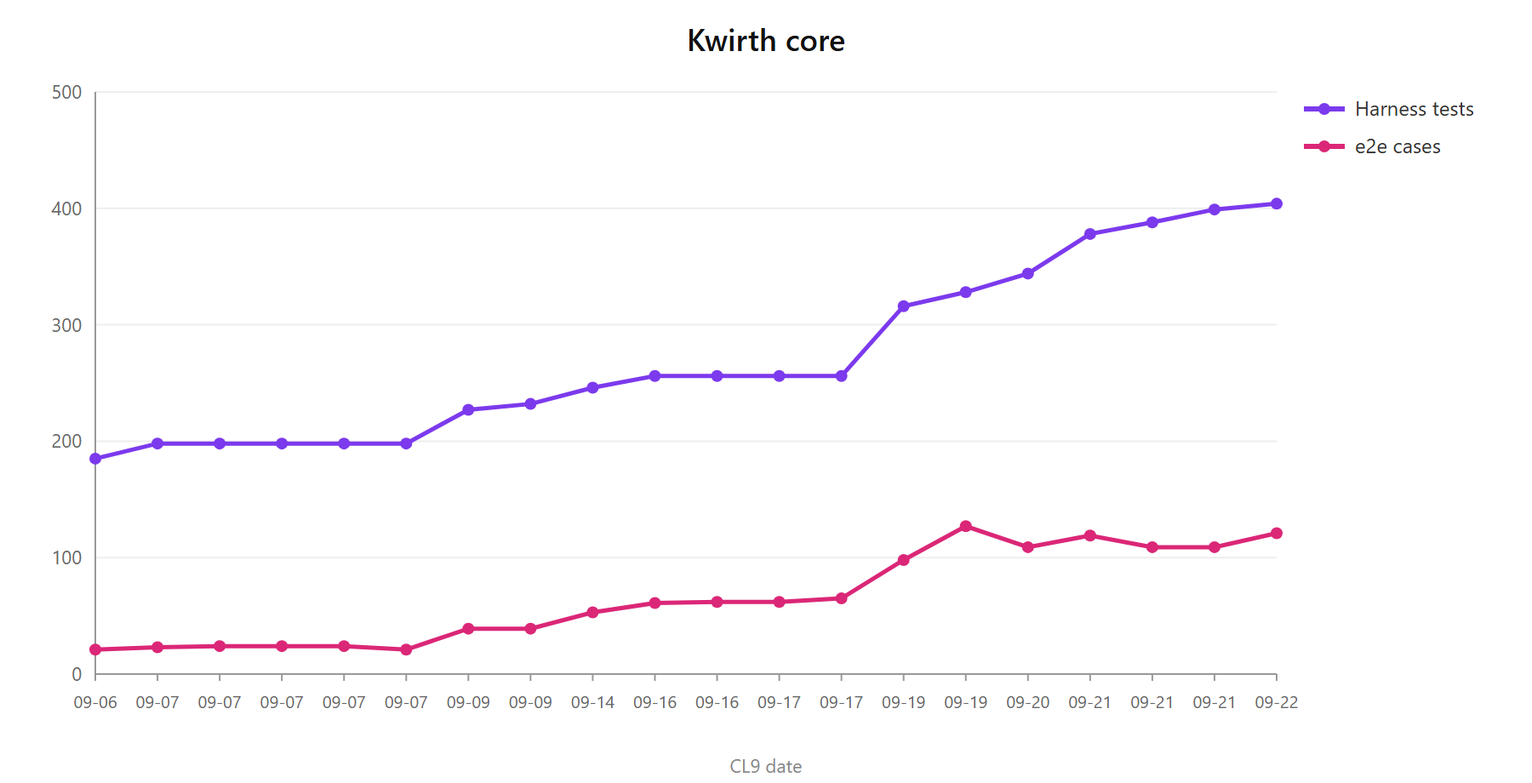
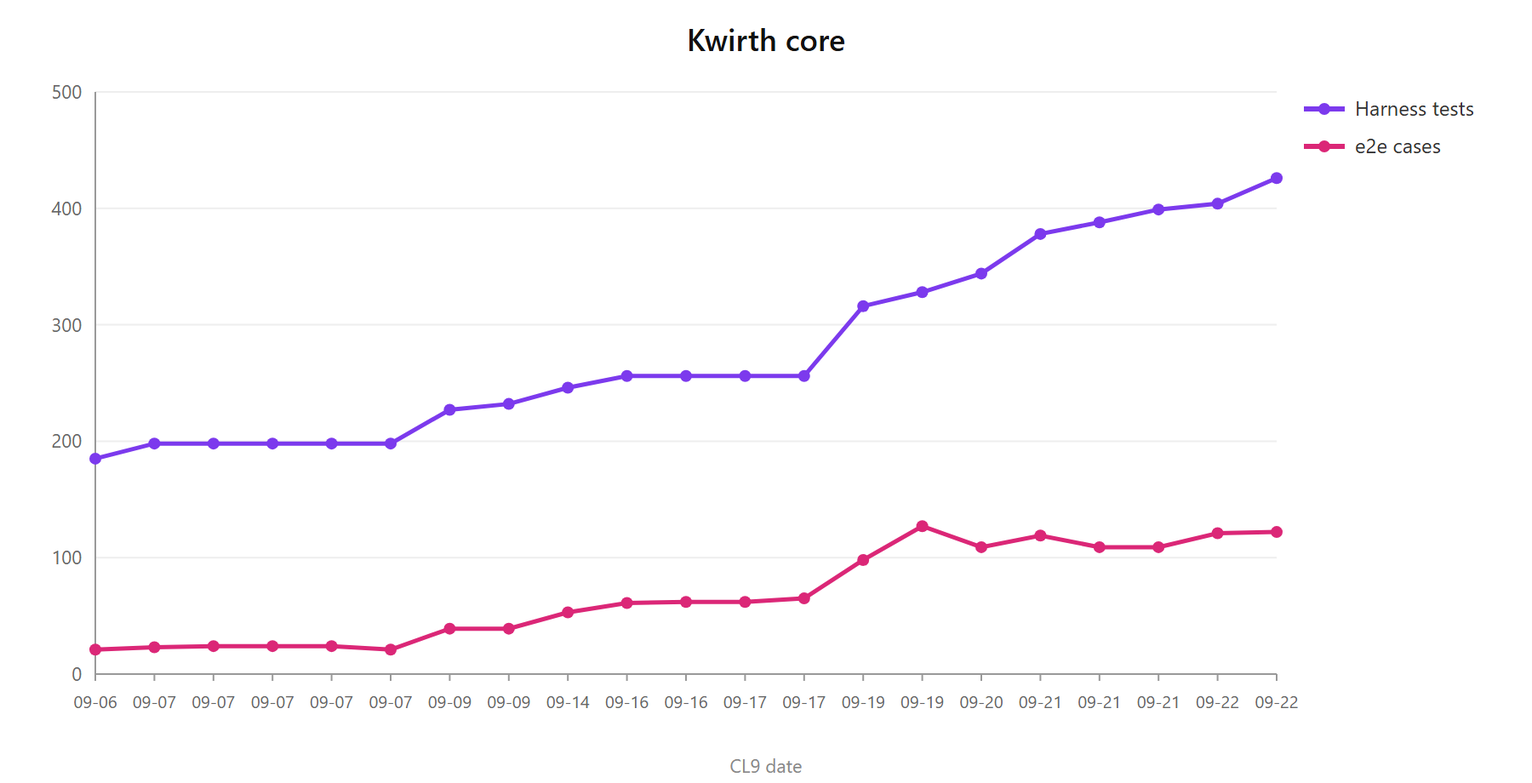
fix(core): una extension montada desde dev salia DUPLICADA en tres managers
listInstalled() concatenaba el indice de instalados con los metadatos de dev sin filtrar los que se
pisan. Una extension registrada en kwirth-dev.json SUSTITUYE a la instalada con su mismo id, no se
suma a ella: en un entorno de desarrollo —donde lo normal es tenerla instalada Y ademas montada
desde su dist— la misma salia dos veces, y el duplicado viajaba tal cual por /core/senders,
/core/providers y /core/webhooks a todos sus consumidores, los gestores del front incluidos.

No era solo de senders: plugin, theme, login, homepage y aitoolset ya llevaban el filtro, pero
sender, provider y webhook se habian quedado atras. Los tres usan ahora el mismo patron.

Lo cazo el e2e del plugin sender-debug, cuyo desplegable pintaba 'console' repetido. El plugin se
defiende deduplicando por su cuenta y se queda asi: le sirve contra un core anterior a este
arreglo, que es lo que un depurador se va a encontrar por ahi.

+8 tests que montan un workspace de dev de VERDAD (un kwirth-dev.json y un dist por extension) y
recorren el camino que hace el core al arrancar, en vez de falsear los mapas de dev a mano; se
comprobo que 6 de los 8 se ponen rojos sin el arreglo. +1 caso e2e en el gestor de senders, sobre
la respuesta del endpoint y NO sobre las tarjetas: el gestor pinta instalados y disponibles del
marketplace, asi que un sender publicado sale dos veces con toda la razon — contar tarjetas daba un
rojo que no decia nada del bug.

426 tests y 37 specs / 122 casos e2e.

diff --git a/back/tests/tools/devOverridesIndex.test.ts b/back/tests/tools/devOverridesIndex.test.ts
@@ -1,0 +1,184 @@
+import { test, describe } from 'node:test'
+import assert from 'node:assert/strict'
+import fs from 'fs'
+import os from 'os'
+import path from 'path'
+import { SenderManager } from '../../src/tools/SenderManager'
+import { ProviderManager } from '../../src/tools/ProviderManager'
+import { WebhookManager } from '../../src/tools/WebhookManager'
+
+/*
+    Una extension registrada en kwirth-dev.json SUSTITUYE a la instalada con su mismo id: no se suma
+    a ella.
+
+    Sonaba obvio y no lo era. 'listInstalled()' concatena el indice de instalados con los metadatos
+    de dev, y en senders, providers y webhooks faltaba filtrar los que se pisan: en un entorno de
+    desarrollo —donde una extension esta instalada Y ademas montada desde su dist— la misma salia
+    DOS veces, y el duplicado viajaba tal cual por '/core/senders', '/core/providers' y
+    '/core/webhooks' a todos sus consumidores: los gestores del front y cualquier extension que
+    liste. Lo cazo el e2e de sender-debug, cuyo desplegable pintaba 'console' repetido.
+
+    Plugin, theme, login, homepage y aitoolset ya lo hacian bien; estos tres se habian quedado atras.
+*/
+
+// ── mocks ────────────────────────────────────────────────────────────────────
+
+// IConfigMaps en memoria, sembrado con el indice de instalados que se quiera probar.
+const makeConfigMaps = (seed: Record<string, unknown> = {}) => {
+    const store = new Map<string, unknown>(Object.entries(seed))
+    const keyed = new Map<string, Map<string, unknown>>()
+    return {
+        write: async (name: string, data: unknown) => { store.set(name, data) },
+        read: async (name: string, def?: unknown) => (store.has(name) ? store.get(name) : def),
+        writeKey: async (name: string, key: string, value: unknown) => {
+            if (!keyed.has(name)) keyed.set(name, new Map())
+            if (value === null) keyed.get(name)!.delete(key)
+            else keyed.get(name)!.set(key, value)
+        },
+        readAllKeys: async (name: string) => Object.fromEntries(keyed.get(name) ?? new Map()),
+    }
+}
+
+/*
+    Monta un workspace de dev de verdad: un kwirth-dev.json con su seccion y un dist por extension
+    (package.json + back.js), y ejecuta el cuerpo con el cwd ahi — que es de donde los managers leen
+    el fichero. No se falsean los mapas de dev a mano a proposito: el camino que se quiere probar es
+    el que recorre el core al arrancar.
+*/
+const withDevWorkspace = async (section: string, ids: string[], version: string, body: () => Promise<void>): Promise<void> => {
+    const root = fs.mkdtempSync(path.join(os.tmpdir(), 'kwirth-dev-ws-'))
+    const entries: Record<string, string> = {}
+    for (const id of ids) {
+        const dist = path.join(root, id, 'dist')
+        fs.mkdirSync(dist, { recursive: true })
+        fs.writeFileSync(path.join(dist, 'package.json'), JSON.stringify({ id, name: id, displayName: `${id} (dev)`, version, description: 'dev build' }))
+        // back.js minimo: lo unico que hace falta es que exporte una clase. Si fallase, el registro
+        // de dev se hace igual (es lo primero que ocurre), pero asi se recorre el camino completo.
+        fs.writeFileSync(path.join(dist, 'back.js'), `class Dev { constructor() { this.id = ${JSON.stringify(id)} } }\nmodule.exports = Dev\n`)
+        entries[id] = path.join(root, id, 'dist')
+    }
+    fs.writeFileSync(path.join(root, 'kwirth-dev.json'), JSON.stringify({ [section]: entries }))
+
+    const previous = process.cwd()
+    process.chdir(root)
+    try {
+        await body()
+    }
+    finally {
+        process.chdir(previous)
+        // los watchers de dev son persistent:false, pero se sueltan igual para no dejar nada mirando
+        // a un directorio temporal que se borra a continuacion
+        for (const id of ids) fs.unwatchFile(path.join(root, id, 'dist', 'back.js'))
+        fs.rmSync(root, { recursive: true, force: true })
+    }
+}
+
+const installed = (id: string, version: string) => ({ id, name: id, displayName: `${id} (installed)`, version, description: 'installed', installedFrom: 'https://marketplace.example/x.tgz' })
+
+// ── senders ──────────────────────────────────────────────────────────────────
+
+describe('SenderManager.listInstalled', () => {
+    test('un sender que esta instalado Y en dev sale UNA vez, con los metadatos de dev', async () => {
+        await withDevWorkspace('senders', ['console'], '9.9.9-dev', async () => {
+            const manager = new SenderManager(makeConfigMaps({ 'kwirth-senders-index': [installed('console', '0.2.0')] }) as never)
+            await manager.init()
+            manager.loadDevSenders()
+
+            const list = await manager.listInstalled()
+            assert.deepEqual(list.map(m => m.id), ['console'])
+            // manda el de dev: es el que getSender() acaba resolviendo, asi que es el que describe
+            // al sender que de verdad recibira el mensaje
+            assert.equal(list[0].version, '9.9.9-dev')
+            assert.equal(list[0].displayName, 'console (dev)')
+        })
+    })
+
+    test('lo instalado que NO esta en dev se conserva, junto a lo de dev', async () => {
+        await withDevWorkspace('senders', ['console'], '9.9.9-dev', async () => {
+            const index = [installed('console', '0.2.0'), installed('teams', '0.4.1')]
+            const manager = new SenderManager(makeConfigMaps({ 'kwirth-senders-index': index }) as never)
+            await manager.init()
+            manager.loadDevSenders()
+
+            const list = await manager.listInstalled()
+            assert.deepEqual(list.map(m => m.id).sort(), ['console', 'teams'])
+            assert.equal(list.find(m => m.id === 'teams')!.version, '0.4.1')
+        })
+    })
+
+    test('sin nada en dev, el indice de instalados sale intacto', async () => {
+        const manager = new SenderManager(makeConfigMaps({ 'kwirth-senders-index': [installed('console', '0.2.0'), installed('jira', '0.1.0')] }) as never)
+        await manager.init()
+
+        const list = await manager.listInstalled()
+        assert.deepEqual(list.map(m => m.id), ['console', 'jira'])
+        assert.equal(list[0].version, '0.2.0')
+    })
+
+    test('un sender solo en dev sale, aunque no este en el indice', async () => {
+        await withDevWorkspace('senders', ['brandnew'], '0.0.1', async () => {
+            const manager = new SenderManager(makeConfigMaps({ 'kwirth-senders-index': [] }) as never)
+            await manager.init()
+            manager.loadDevSenders()
+
+            const list = await manager.listInstalled()
+            assert.deepEqual(list.map(m => m.id), ['brandnew'])
+        })
+    })
+})
+
+// ── providers ────────────────────────────────────────────────────────────────
+
+describe('ProviderManager.listInstalled', () => {
+    test('un provider que esta instalado Y en dev sale UNA vez, con los metadatos de dev', async () => {
+        await withDevWorkspace('providers', ['azure'], '9.9.9-dev', async () => {
+            const manager = new ProviderManager(makeConfigMaps({ 'kwirth-providers-index': [installed('azure', '0.2.0')] }) as never)
+            await manager.init()
+            manager.loadDevProviders(new Map())
+
+            const list = await manager.listInstalled()
+            assert.deepEqual(list.map(m => m.id), ['azure'])
+            assert.equal(list[0].version, '9.9.9-dev')
+        })
+    })
+
+    test('lo instalado que NO esta en dev se conserva', async () => {
+        await withDevWorkspace('providers', ['azure'], '9.9.9-dev', async () => {
+            const index = [installed('azure', '0.2.0'), installed('longhorn', '0.1.0')]
+            const manager = new ProviderManager(makeConfigMaps({ 'kwirth-providers-index': index }) as never)
+            await manager.init()
+            manager.loadDevProviders(new Map())
+
+            const list = await manager.listInstalled()
+            assert.deepEqual(list.map(m => m.id).sort(), ['azure', 'longhorn'])
+        })
+    })
+})
+
+// ── webhooks ─────────────────────────────────────────────────────────────────
+
+describe('WebhookManager.listInstalled', () => {
+    test('un webhook que esta instalado Y en dev sale UNA vez, con los metadatos de dev', async () => {
+        await withDevWorkspace('webhooks', ['jira'], '9.9.9-dev', async () => {
+            const manager = new WebhookManager(makeConfigMaps({ 'kwirth-webhooks-index': [installed('jira', '0.3.0')] }) as never)
+            await manager.init()
+            manager.loadDevWebhooks()
+
+            const list = await manager.listInstalled()
+            assert.deepEqual(list.map(m => m.id), ['jira'])
+            assert.equal(list[0].version, '9.9.9-dev')
+        })
+    })
+
+    test('lo instalado que NO esta en dev se conserva', async () => {
+        await withDevWorkspace('webhooks', ['jira'], '9.9.9-dev', async () => {
+            const index = [installed('jira', '0.3.0'), installed('github', '0.1.2')]
+            const manager = new WebhookManager(makeConfigMaps({ 'kwirth-webhooks-index': index }) as never)
+            await manager.init()
+            manager.loadDevWebhooks()
+
+            const list = await manager.listInstalled()
+            assert.deepEqual(list.map(m => m.id).sort(), ['github', 'jira'])
+        })
+    })
+})

diff --git a/front/e2e/tests/senders-manager.spec.ts b/front/e2e/tests/senders-manager.spec.ts
@@ -66,6 +66,26 @@ test.describe('gestor generico de extensiones: senders', () => {
         }
     })
 
+    /*
+        Un sender montado desde dev SUSTITUYE al instalado con su mismo id, no se suma a el.
+
+        Faltaba el filtro en `SenderManager.listInstalled()` —que concatena el indice de instalados
+        con los metadatos de dev— y en un entorno de desarrollo, donde lo normal es tener una
+        extension instalada Y ademas montada desde su dist, el mismo sender salia DOS veces: aqui en
+        el gestor, y en cualquier consumidor de '/core/senders'. Lo cazo el e2e del plugin
+        sender-debug, cuyo desplegable pintaba 'console' repetido.
+
+        Se mira la RESPUESTA del endpoint y no las tarjetas: el gestor pinta los instalados y ademas
+        los disponibles en el marketplace, asi que un sender instalado que tambien esta publicado sale
+        dos veces con toda la razon. Contar tarjetas por su nombre daria un rojo que no dice nada del
+        bug — se comprobo, y era exactamente lo que pasaba con 'email-resend'.
+    */
+    test('ningun sender sale repetido, aunque este instalado y ademas montado desde dev', async () => {
+        const ids = senders.map(s => s.id)
+        const repetidos = ids.filter((id, i) => ids.indexOf(id) !== i)
+        expect(repetidos, `'/core/senders' devuelve ids repetidos: ${repetidos.join(', ')}`).toEqual([])
+    })
+
     test('el chip cuenta los destinos que tiene puestos cada sender', async () => {
         // Un sender sin configuraciones no manda nada a ningun sitio, y eso se lee de un vistazo.
         const conConfigs = senders.filter(s => s.configNames.length > 0)

diff --git a/back/src/tools/SenderManager.ts b/back/src/tools/SenderManager.ts
@@ -424,7 +424,16 @@ export class SenderManager implements ISenderAccess {
                 return dev.meta
             }
         })
-        return [...stored, ...devMetas].map(meta => ({
+        /*
+            Un sender registrado en dev SUSTITUYE al instalado con su mismo id, no se suma a el. Sin
+            este filtro el mismo sender sale DOS veces —lo normal en un entorno de desarrollo, donde
+            esta instalado y ademas montado desde su dist— y el duplicado viaja tal cual por
+            GET /core/senders a todos sus consumidores: el gestor de senders y cualquier extension
+            que liste senders. Es el mismo patron que ya usan plugin, theme, login, homepage y
+            aitoolset; aqui faltaba. Manda el de dev, que es el que getSender() acaba resolviendo.
+        */
+        const devIds = new Set(devMetas.map(m => m.id))
+        return [...stored.filter(m => !devIds.has(m.id)), ...devMetas].map(meta => ({
             ...meta,
             configNames: Array.from(this.configStore.get(meta.id)?.values() ?? []).map(c => c.name),
             hasFront: this.hasFront(meta.id),

diff --git a/back/src/tools/WebhookManager.ts b/back/src/tools/WebhookManager.ts
@@ -419,7 +419,10 @@ export class WebhookManager implements IWebhookAccess {
                 return dev.meta
             }
         })
-        return [...stored, ...devMetas].map(meta => ({
+        // Un webhook de dev SUSTITUYE al instalado con su mismo id, no se suma a el: sin el filtro
+        // sale duplicado en '/core/webhooks' y en el gestor. Mismo patron que plugin, theme y login.
+        const devIds = new Set(devMetas.map(m => m.id))
+        return [...stored.filter(m => !devIds.has(m.id)), ...devMetas].map(meta => ({
             ...meta,
             configNames: Array.from(this.configStore.get(meta.id)?.values() ?? []).map(c => c.name),
             hasFront: this.hasFront(meta.id),

diff --git a/back/src/tools/ProviderManager.ts b/back/src/tools/ProviderManager.ts
@@ -173,7 +173,10 @@ export class ProviderManager {
                 return dev.meta
             }
         })
-        return [...stored, ...devMetas]
+        // Un provider de dev SUSTITUYE al instalado con su mismo id, no se suma a el: sin el filtro
+        // sale duplicado en '/core/providers' y en el gestor. Mismo patron que plugin, theme y login.
+        const devIds = new Set(devMetas.map(m => m.id))
+        return [...stored.filter(m => !devIds.has(m.id)), ...devMetas]
     }
 
     async install(tarGzUrl: string, registeredProviders: Map<string, TProviderConstructor>, installedFrom?: string, marketplaceId?: string, marketplaceLabel?: string): Promise<IProviderMeta> {

diff --git a/docs/qa/test-metrics-history.md b/docs/qa/test-metrics-history.md
@@ -38,6 +38,7 @@
 
 | Fecha | Cierre | Harness | Cobertura (líneas / ramas / funcs) | e2e | Notas |
 |---|---|---|---|---|---|
+| 2026-09-22 | Una extensión montada desde dev salía DUPLICADA en tres managers | **426** ✅ | 80.44 % / 82.96 % / 78.41 % | 37 specs · 122 casos | **`listInstalled()` concatenaba el índice de instalados con los metadatos de dev sin filtrar los que se pisan.** Una extensión registrada en `kwirth-dev.json` **sustituye** a la instalada con su mismo id, no se suma a ella — y en un entorno de desarrollo, donde lo normal es tenerla instalada Y además montada desde su `dist`, la misma salía **dos veces**. El duplicado viajaba tal cual por `/core/senders`, `/core/providers` y `/core/webhooks` a todos sus consumidores: los gestores del front y cualquier extensión que liste. `plugin`, `theme`, `login`, `homepage` y `aitoolset` ya llevaban el filtro; **sender, provider y webhook se habían quedado atrás**, y ahora usan el mismo patrón. Lo cazó el **e2e del plugin sender-debug**, cuyo desplegable pintaba `console` repetido: el plugin se defendía deduplicando, pero el defecto estaba aquí. **+8 tests** que montan un workspace de dev de verdad (un `kwirth-dev.json` y un `dist` por extensión) y recorren el camino que hace el core al arrancar, en vez de falsear los mapas de dev a mano; se comprobó que **6 de los 8 se ponen rojos sin el arreglo**. **+1 caso e2e** en el gestor de senders, sobre la respuesta del endpoint y **no** sobre las tarjetas: el gestor pinta instalados *y* disponibles del marketplace, así que un sender publicado sale dos veces con toda la razón — contar tarjetas daba un rojo que no decía nada del bug. ⚠ El harness incluye 8 tests de `senderBatch.test.ts`, trabajo en curso sin commitear ajeno a este cierre. |
 | 2026-09-22 | Probar la configuración de una extensión desde el formulario, y campos de varios valores | **404** ✅ | 78.95 % / 83.38 % / 77.41 % | 37 specs · 121 casos | **Un usuario metía credenciales y no sabía si valían hasta que la extensión fallaba en silencio.** Excubitor lo resolvió a mano con su *Test connection* para los conectores cloud; ahora lo hace el core una vez para cualquier provider: el formulario genérico saca un botón **TEST** si el provider expone `/test` en su `configRouter`. La detección **no se declara**, se mira: `ProviderApi` inspecciona las rutas del router —el endpoint es la única fuente que no puede mentir— así que un provider que lo añada mañana hereda el botón sin tocar su `package.json` ni su build. Ya lo tienen dos: `azure` y `sugarless`. ⚠ El botón manda el **borrador** por POST y **no guarda**: probar lo que tienes escrito es lo útil, pero guardarlo por tu cuenta puede dejar la configuración peor de como estaba si el formulario se cargó a medias (una extensión que solo acepte GET prueba lo guardado, y entonces sí se avisa de los cambios pendientes). **Y campos de varios valores**: `multiselect` en `IConfigFieldDef` (`kwirth-common@0.5.53`), pintado como desplegable múltiple **con checkbox** — sin el check, un multiselect parece de selección única, y así se quedó en la primera pasada. El valor se guarda como una cadena con comas: el contrato no tiene tipo lista y dárselo obligaría a migrar los 64 campos ya publicados. `azure` lo usa para ofrecer las regiones reales de la suscripción. **+5 tests** de la detección (incluido que `/testing` o `/test/algo` no cuentan) y **+1 spec e2e** con 2 casos, que comprueba el botón y los checkbox sin pulsar TEST — probar de verdad sale a la red del proveedor. ℹ `kwirth-common@0.5.53` trae además `previousLogLines`, el ajuste del log del contenedor anterior: el tipo ya está, **consumirlo sigue pendiente** (S2 de su plan). |
 | 2026-09-21 | La cobertura del core estaba MAL MEDIDA (y dos managers sin un solo test) | **399** ✅ | 78.78 % / 83.18 % / 77.55 % | 34 specs · 109 casos | 🔴 **El 50 % que veníamos apuntando era un artefacto de medición.** El runner del back bundleaba **un fichero por test**, así que cada bundle arrastraba su **propia copia del `src`** y el informe los trataba como ficheros distintos: hacía la **media** de esas copias en vez de la **unión**, contando como no cubierto todo el `src` que ese test concreto no toca. Encima el desglose listaba `tests/.out/*.test.mjs`, no `src/`, que es la pista que lo delató. Con el entry único —el mismo arreglo que ya llevaban montag, agora y provider-debug— la misma suite, **sin un test nuevo**, pasa de 50.92 a **79.23 %**. El salto es de medición, no de trabajo. ⚠ El número incluye el código de los propios tests dentro del bundle, así que está algo por encima de la cobertura pura de `src/`; es el mismo criterio que usan los plugins, y por eso es comparable con ellos. **Y lo que sí es trabajo**: `ThemeManager` y `HomepageManager` no tenían **ningún** test —42 de los 83 ficheros del `src` siguen sin aparecer en ninguno— y ahora llevan **11**, que fijan lo que se aprendió a base de sustos: las dos formas de tgz (raíz y `package/`) instalan igual, un front que no cabe en el ConfigMap no se guarda ahí y se recupera del origen con caché, y esa caché se invalida al instalar y al desinstalar. De paso se alinearon con los otros cuatro managers: ya borraban al desinstalar, pero **no al instalar**, que es justo el caso de actualizar. ℹ El global baja de 79.23 a 78.78 porque esas ~490 líneas **entran ahora en el denominador**: antes no salían en el informe porque ningún test las importaba. Un test propio cazó un error mío: el front 'enorme' era texto periódico, gzip lo dejaba en nada y cabía en el ConfigMap; hay que generarlo incompresible (`randomBytes`). |
 | 2026-09-21 | Un fallo de una extensión ya no tumba el core, y la caché de /tmp se invalida | **388** ✅ | 50.92 % / 75.23 % / 50.38 % | 34 specs · 109 casos | **El core se moría por una promesa sin `catch` de una extensión ajena.** `unhandledRejection` se trataba siempre como fatal: `exitAndLog()` se llevaba el pod por delante, con todos sus canales y todos sus usuarios dentro. Bastaba suscribirse al provider `trivy` sin payload desde provider-debug. Ahora el fallo se **atribuye por el stack** —el core carga cada back desde `/tmp/kwirth-<tipo>-<id>-back.js`, así que ahí está su rastro—: si es de una extensión se **aísla**, se deja traza con su nombre y Kwirth sigue sirviendo. La heurística es a propósito **conservadora**: lo que no se puede atribuir se sigue tratando como fallo del core y el proceso sale, porque ahí sí puede haber quedado un estado del que no conviene fiarse. En `tools/FailureOrigin.ts`, **+7 tests** (incluido el caso asimétrico: un stack del core no se atribuye a nadie). **Y la caché de `/tmp`, que era media solución.** `ProviderManager` no cacheaba lo que bajaba del origen, así que un back que no cabe en el ConfigMap se descargaba entero en cada arranque (914 KB en `trivy`) y el provider se quedaba fuera si el registro no respondía justo entonces. Al ir a copiar el patrón de plugin apareció el defecto de fondo: **ninguno de los cuatro invalidaba su caché**. El nombre no lleva la versión —quien la lee al arrancar solo conoce el id—, así que una actualización seguía cargando el js **viejo** mientras el pod siguiera vivo, y `/tmp` sobrevive a reiniciar el proceso. Ahora provider cachea, los cuatro borran al instalar y al desinstalar, y el nombre vive en un solo sitio (`cachedExtensionFile` / `dropCachedExtensionFiles`) para que el borrado y la lectura no puedan divergir. **+3 tests.** ℹ Sin casos e2e nuevos: nada de esto es observable desde la UI —un rechazo aislado se ve en el log del core, y la caché vive en el sistema de ficheros del pod—, así que lo cubre el harness. |

diff --git a/plans/sender-debug/PLAN.md b/plans/sender-debug/PLAN.md
@@ -130,10 +130,26 @@ Queda:
 
 ## Backlog
 
-- 🐛 **Arreglar el duplicado en el CORE.** `SenderManager.listInstalled()` concatena el índice de
-  instalados con los de dev sin deduplicar por id. El plugin ya se defiende, pero el defecto sigue
-  ahí y lo sirve `GET /core/senders` a todos sus consumidores. Es del core, no de este plugin: se
-  reportó y se dejó sin tocar a propósito.
+*(vacío por ahora)*
+
+## El duplicado del core · ARREGLADO (2026-09-22)
+
+El hallazgo que salió de este plugin no se quedó en el plugin.
+
+`listInstalled()` concatenaba el índice de instalados con los metadatos de dev **sin filtrar los que
+se pisan**, y una extensión registrada en `kwirth-dev.json` **sustituye** a la instalada con su mismo
+id: no se suma a ella. En un entorno de desarrollo —donde lo normal es tenerla instalada *y* además
+montada desde su `dist`— la misma salía dos veces, y el duplicado viajaba tal cual por
+`/core/senders`, `/core/providers` y `/core/webhooks` a todos sus consumidores.
+
+Al ir a arreglarlo apareció que **no era solo de senders**: `plugin`, `theme`, `login`, `homepage` y
+`aitoolset` ya llevaban el filtro, pero **sender, provider y webhook se habían quedado atrás**. Los
+tres usan ahora el mismo patrón, con 8 tests nuevos (que montan un workspace de dev de verdad y
+recorren el camino del arranque, en vez de falsear los mapas a mano) y un caso e2e en el gestor de
+senders.
+
+La deduplicación **del plugin se queda**: no sobra. Sigue defendiéndolo de un core anterior al
+arreglo, que es exactamente el caso que un depurador se va a encontrar por ahí.
 
 - `fetchStatus(configName, externalId)`: reconciliar el estado de un ticket creado por un sender de
   ticketing. Pide su propia pantalla (pedir un id externo no es componer un mensaje).

diff --git a/plans/README.md b/plans/README.md
@@ -23,7 +23,7 @@ meses después — que es exactamente lo que pasaba antes de escribir este índi
 | [ai-tools](ai-tools/PLAN.md) | las tools de IA como extensión instalable (`aitoolset`) | S4–S7 y retirar las 43 tools viejas de `common-ai` |
 | [icons](icons/PLAN.md) | aligerar el barrel de iconos | los dos que un sender pide por nombre, y el alias `/icons` en 26 `build.mjs` |
 | [provider-debug](provider-debug/PLAN.md) | canal para ver en crudo lo que emite un provider | la fase de front |
-| [sender-debug](sender-debug/PLAN.md) · [PRD](sender-debug/PRD.md) | canal para probar un sender a mano: elegir config, componer un mensaje y ver qué contestó | S1 en producción (`0.1.0`); queda el S2 de pulido, y **arreglar en el core el duplicado de `listInstalled()`** que cazó su e2e |
+| [sender-debug](sender-debug/PLAN.md) · [PRD](sender-debug/PRD.md) | canal para probar un sender a mano: elegir config, componer un mensaje y ver qué contestó | S1 en producción (`0.1.0`); queda el S2 de pulido. El duplicado de `listInstalled()` que cazó su e2e ya está arreglado en el core, en los **tres** managers que lo tenían |
 | [pinocchio](pinocchio/PLAN.md) | backlog del plugin | se vacía por partes, sin fecha |
 | [geppetto](geppetto/PRD.md) | analizador LLM de propósito general (PRD) | la decisión 6; sin código todavía |
 | [pluvider](pluvider/PLAN.md) · [PRD](pluvider/PRD.md) | un plugin que además expone su información in-process | MVP en producción (agora y montag publican, provider-debug consume); queda la fase 2: `ask()`, `publications[]` y el descubrimiento en runtime |
